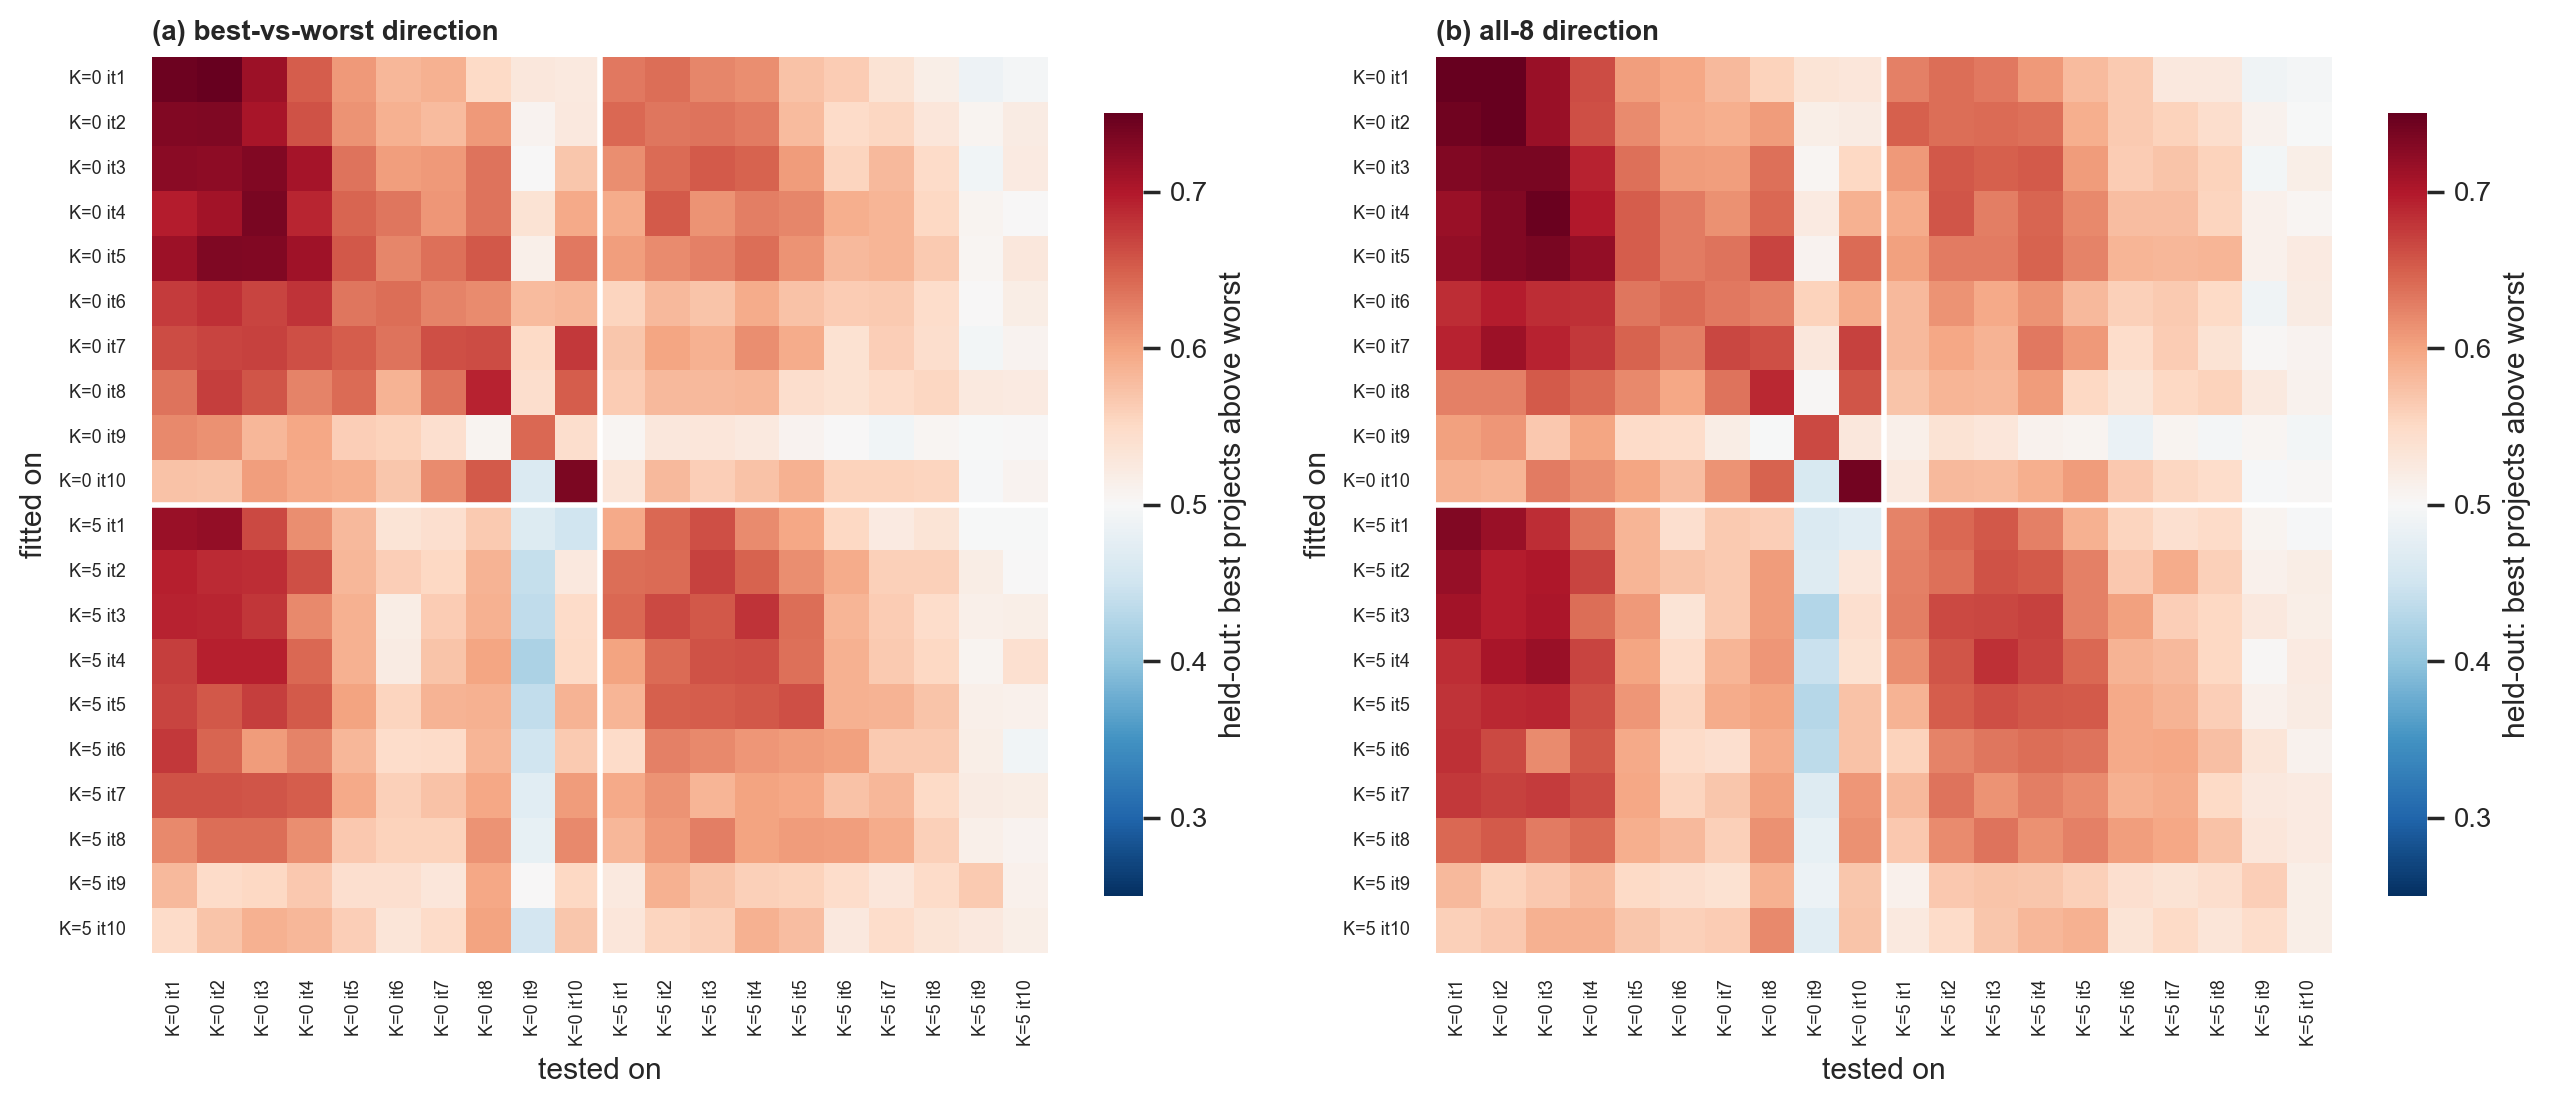
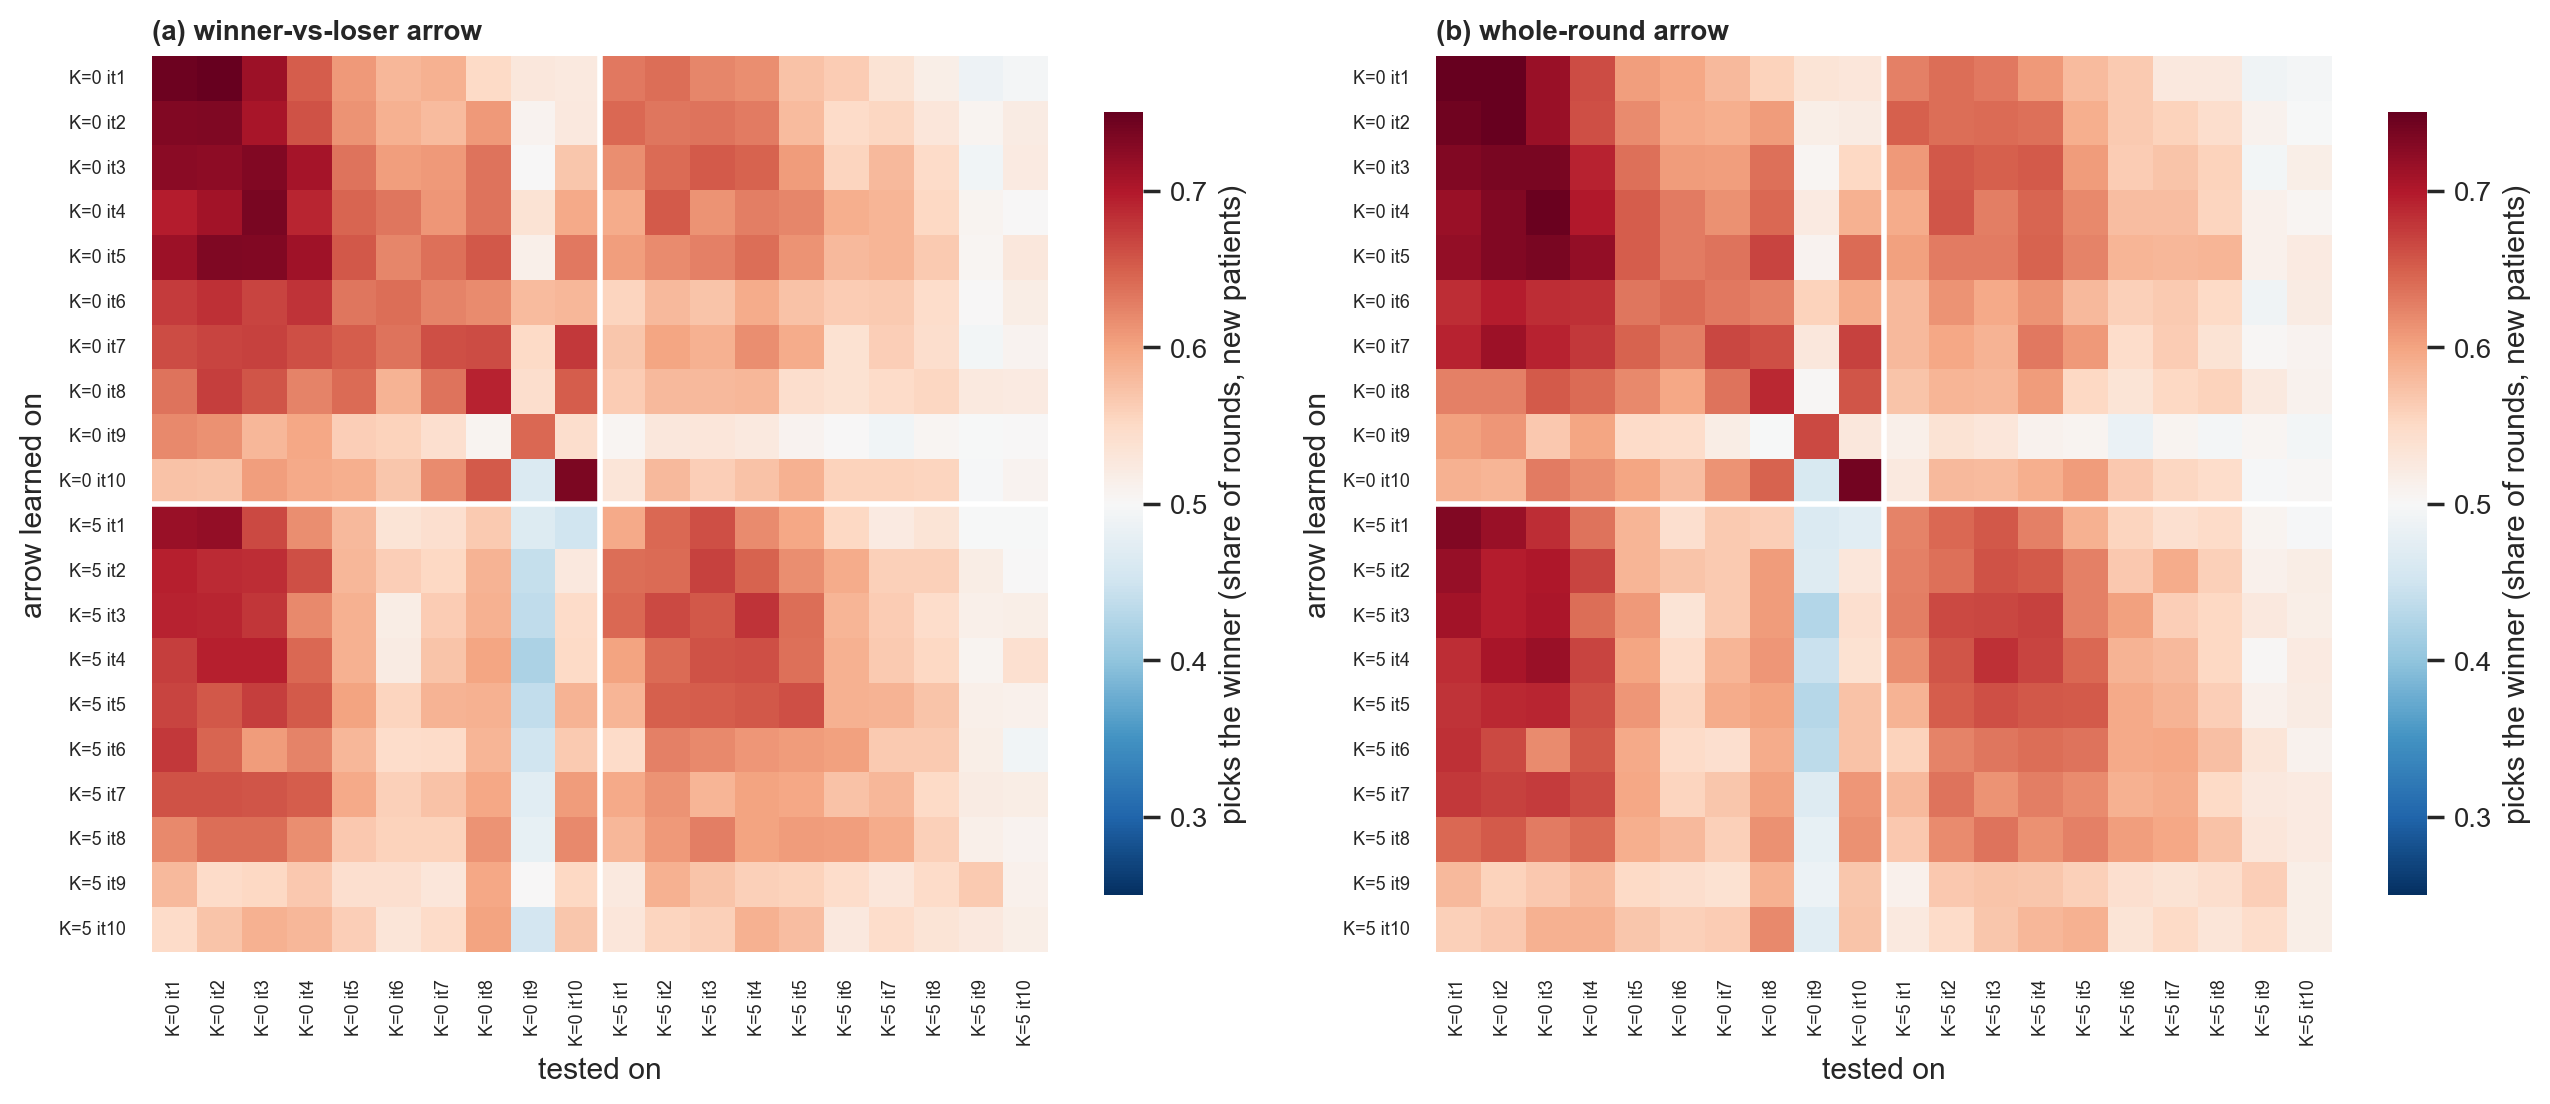
GRPO direction figures: plain-language labels; --plots-only re-render

diff --git a/meetings/build/analyze_grpo_round_directions_2026-09-29.py b/meetings/build/analyze_grpo_round_directions_2026-09-29.py
@@ -371,9 +371,9 @@ def fig_analysis(res, gapq, out, main, base, score, ylab, gap_lab, title, fname)
         ax.fill_between(g.iteration, g[f"{score}_{main}_lo"], g[f"{score}_{main}_hi"], color=COL[arm], alpha=0.2, lw=0)
         ax.plot(g.iteration, g[f"{score}_{main}"], color=COL[arm], marker=MARK[arm], ms=4.5, lw=2, label=title[0])
         ax.plot(g.iteration, g[f"{score}_{main}_clean"], color=COL[arm], marker=MARK[arm], mfc="white", ms=4, lw=1.1,
-                ls="--", label="same, scored on rounds without degenerate text")
+                ls="--", label="same arrow, rounds with no broken text")
         ax.plot(g.iteration, g[f"{score}_{base}"], color=GREY, ls="--", lw=1.3, marker=".", label=title[1])
-        ax.plot(g.iteration, g[f"{score}_length"], color=LIGHT, ls=":", lw=1.5, marker=".", label="reply length alone")
+        ax.plot(g.iteration, g[f"{score}_length"], color=LIGHT, ls=":", lw=1.5, marker=".", label="length only (longer reply wins)")
         _chance(ax, 0.5 if score != "rho" else 0.0)
         ax.set_xticks(ITERS)
         ax.set_xlabel("training iteration")
@@ -388,28 +388,29 @@ def fig_analysis(res, gapq, out, main, base, score, ylab, gap_lab, title, fname)
     _chance(ax, 0.5 if score != "rho" else 0.0)
     ax.set_xticks(range(1, 6))
     ax.set_xlabel(gap_lab)
-    ax.set_title("by how different the round's rewards are")
+    ax.set_title("by how far apart the round's scores are")
     ax.set_ylabel(ylab.split("\n")[0])
     ax.legend(frameon=False, loc="upper left", fontsize=8)
     fig.tight_layout(rect=(0, 0.1, 1, 1))
-    fig.legend(handles, [l.replace("same, scored", "the same direction, scored") for l in labels], loc="lower left",
+    fig.legend(handles, labels, loc="lower left",
                bbox_to_anchor=(0.05, 0.0), ncol=4, frameon=False, fontsize=8.5,
-               title="line style (colour = arm):", title_fontsize=8.5)
+               title="lines (colour = arm):", title_fontsize=8.5)
     fig.savefig(os.path.join(out, fname))
     plt.close(fig)
 
 
 def fig_compare(cmp_df, out):
     fig, axes = plt.subplots(2, 2, figsize=(11.5, 7.2))
-    panels = [("bw", "held-out: best projects above worst", 0.5, "(a) picking the winner over the loser"),
-              ("rho", "held-out: within-round Spearman", 0.0, "(b) ranking all 8 candidates"),
-              ("reliability", "split-half reliability (cosine)", None, "(c) how stable the direction is")]
+    panels = [("bw", "picks the winner\n(share of rounds, new patients)", 0.5, "(a) picking the winner over the loser"),
+              ("rho", "ordering score (0 = none, 1 = perfect)", 0.0, "(b) ordering all 8 replies"),
+              ("reliability", "stability (1 = the same arrow)", None,
+               "(c) stability: do two halves of the patients give the same arrow?")]
     for ax, (col, ylab, ref, title) in zip(axes.flat[:3], panels):
         for arm in ARMS:
             g = cmp_df[cmp_df.arm == arm]
             ax.plot(g.iteration, g[f"{col}_bt"], color=COL[arm], marker=MARK[arm], mfc="white", ms=4.5, lw=1.4, ls="--",
-                    label=f"{LAB[arm]}, best vs worst")
-            ax.plot(g.iteration, g[f"{col}_ridge"], color=COL[arm], marker=MARK[arm], ms=4.5, lw=2, label=f"{LAB[arm]}, all 8")
+                    label=f"{LAB[arm]}, winner-vs-loser arrow")
+            ax.plot(g.iteration, g[f"{col}_ridge"], color=COL[arm], marker=MARK[arm], ms=4.5, lw=2, label=f"{LAB[arm]}, whole-round arrow")
         if ref is not None:
             _chance(ax, ref)
         ax.set_xticks(ITERS)
@@ -423,13 +424,13 @@ def fig_compare(cmp_df, out):
     _chance(ax, 0.0)
     ax.set_ylim(-0.1, 1.0)
     ax.set_xticks(ITERS)
-    ax.set_ylabel("cosine")
-    ax.set_title("(d) best-vs-worst direction vs all-8 direction")
+    ax.set_ylabel("similarity (1 = the same arrow)")
+    ax.set_title("(d) do the two arrows point the same way?")
     ax.legend(frameon=False, fontsize=8, loc="lower left")
     for ax in axes[1]:
         ax.set_xlabel("training iteration")
-    fig.tight_layout(rect=(0, 0, 1, 0.95))
-    fig.legend(handles, labels, loc="upper center", bbox_to_anchor=(0.5, 1.0), ncol=4, frameon=False, fontsize=8.5)
+    fig.tight_layout(rect=(0, 0, 1, 0.93))
+    fig.legend(handles, labels, loc="upper center", bbox_to_anchor=(0.5, 1.0), ncol=2, frameon=False, fontsize=8.5)
     fig.savefig(os.path.join(out, "compare.png"))
     plt.close(fig)
 
@@ -437,14 +438,14 @@ def fig_compare(cmp_df, out):
 def fig_transfer(T_bt, T_ridge, out):
     fig, axes = plt.subplots(1, 2, figsize=(13, 5.8))
     labels = [f"{LAB[a]} it{i}" for a, i in CELLS]
-    for ax, T, title in ((axes[0], T_bt, "(a) best-vs-worst direction"), (axes[1], T_ridge, "(b) all-8 direction")):
+    for ax, T, title in ((axes[0], T_bt, "(a) winner-vs-loser arrow"), (axes[1], T_ridge, "(b) whole-round arrow")):
         sns.heatmap(T, ax=ax, cmap="RdBu_r", vmin=0.25, vmax=0.75, center=0.5, square=True, xticklabels=labels,
-                    yticklabels=labels, cbar_kws={"label": "held-out: best projects above worst", "shrink": 0.75})
+                    yticklabels=labels, cbar_kws={"label": "picks the winner (share of rounds, new patients)", "shrink": 0.75})
         ax.axhline(10, color="white", lw=2)
         ax.axvline(10, color="white", lw=2)
         ax.tick_params(labelsize=6.5)
         ax.set_xlabel("tested on")
-        ax.set_ylabel("fitted on")
+        ax.set_ylabel("arrow learned on")
         ax.set_title(title)
     fig.tight_layout()
     fig.savefig(os.path.join(out, "transfer.png"))
@@ -453,19 +454,20 @@ def fig_transfer(T_bt, T_ridge, out):
 
 def fig_features(feat_df, out):
     names = list(FEATURES)
+    shown = {"degenerate text": "broken text"}
     fig, axes = plt.subplots(1, 2, figsize=(12, 5.2), sharey=True)
     y = np.arange(len(names))[::-1]
     for ax, arm in zip(axes, ARMS):
         g = feat_df[feat_df.arm == arm].set_index("feature").loc[names]
         ax.axvline(0, color="#444444", lw=0.8)
-        ax.scatter(g["reward"], y, marker="D", s=34, color="#222222", label="the reward itself", zorder=3)
+        ax.scatter(g["reward"], y, marker="D", s=34, color="#222222", label="the score itself", zorder=3)
         ax.scatter(g["bt"], y, marker="o", s=40, facecolors="white", edgecolors=COL[arm], linewidths=1.6,
-                   label="best-vs-worst direction", zorder=3)
-        ax.scatter(g["ridge"], y, marker="o", s=40, color=COL[arm], label="all-8 direction", zorder=3)
+                   label="winner-vs-loser arrow", zorder=3)
+        ax.scatter(g["ridge"], y, marker="o", s=40, color=COL[arm], label="whole-round arrow", zorder=3)
         ax.set_yticks(y)
-        ax.set_yticklabels(names)
-        ax.set_xlabel("within-round correlation with the feature")
-        ax.set_title(f"{LAB[arm]}: what the directions and the reward favour")
+        ax.set_yticklabels([shown.get(n, n) for n in names])
+        ax.set_xlabel("how strongly it goes with the feature, within a round (-1 to 1)")
+        ax.set_title(f"{LAB[arm]}: what goes with the arrows and with the score")
     fig.tight_layout(rect=(0, 0, 1, 0.93))
     fig.legend(*axes[0].get_legend_handles_labels(), loc="upper center", bbox_to_anchor=(0.5, 1.0), ncol=3,
                frameon=False, fontsize=9)
@@ -502,12 +504,13 @@ def within_corr(x, y, cand_round, R):
 def render(res, gq, T, feat, fig_dir):
     style()
     fig_analysis(res, gq[gq.method == "bt"], fig_dir, "bt", "meandiff", "bw",
-                 "held-out: best projects above worst", "quintile of the round's reward gap (best − worst)",
-                 ("Bradley-Terry direction", "mean of best − worst"), "analysis1_best_worst.png")
+                 "picks the winner\n(share of rounds, new patients)",
+                 "fifths of rounds, by best − worst gap\n(1 = closest, 5 = furthest apart)",
+                 ("winner-vs-loser arrow", "simple average, no model"), "analysis1_best_worst.png")
     fig_analysis(res, gq[gq.method == "ridge"], fig_dir, "ridge", "advmean", "rho",
-                 "held-out: within-round Spearman\n(projection vs reward, all 8)",
-                 "quintile of the round's reward spread (std)",
-                 ("ridge direction", "advantage-weighted mean"), "analysis2_all8.png")
+                 "ordering score for the 8 replies\n(0 = none, 1 = perfect; new patients)",
+                 "fifths of rounds, by spread of the 8 scores\n(1 = closest, 5 = most spread out)",
+                 ("whole-round arrow", "simple weighted average, no model"), "analysis2_all8.png")
     fig_compare(res, fig_dir)
     fig_transfer(T["bt"], T["ridge"], fig_dir)
     fig_features(feat, fig_dir)
